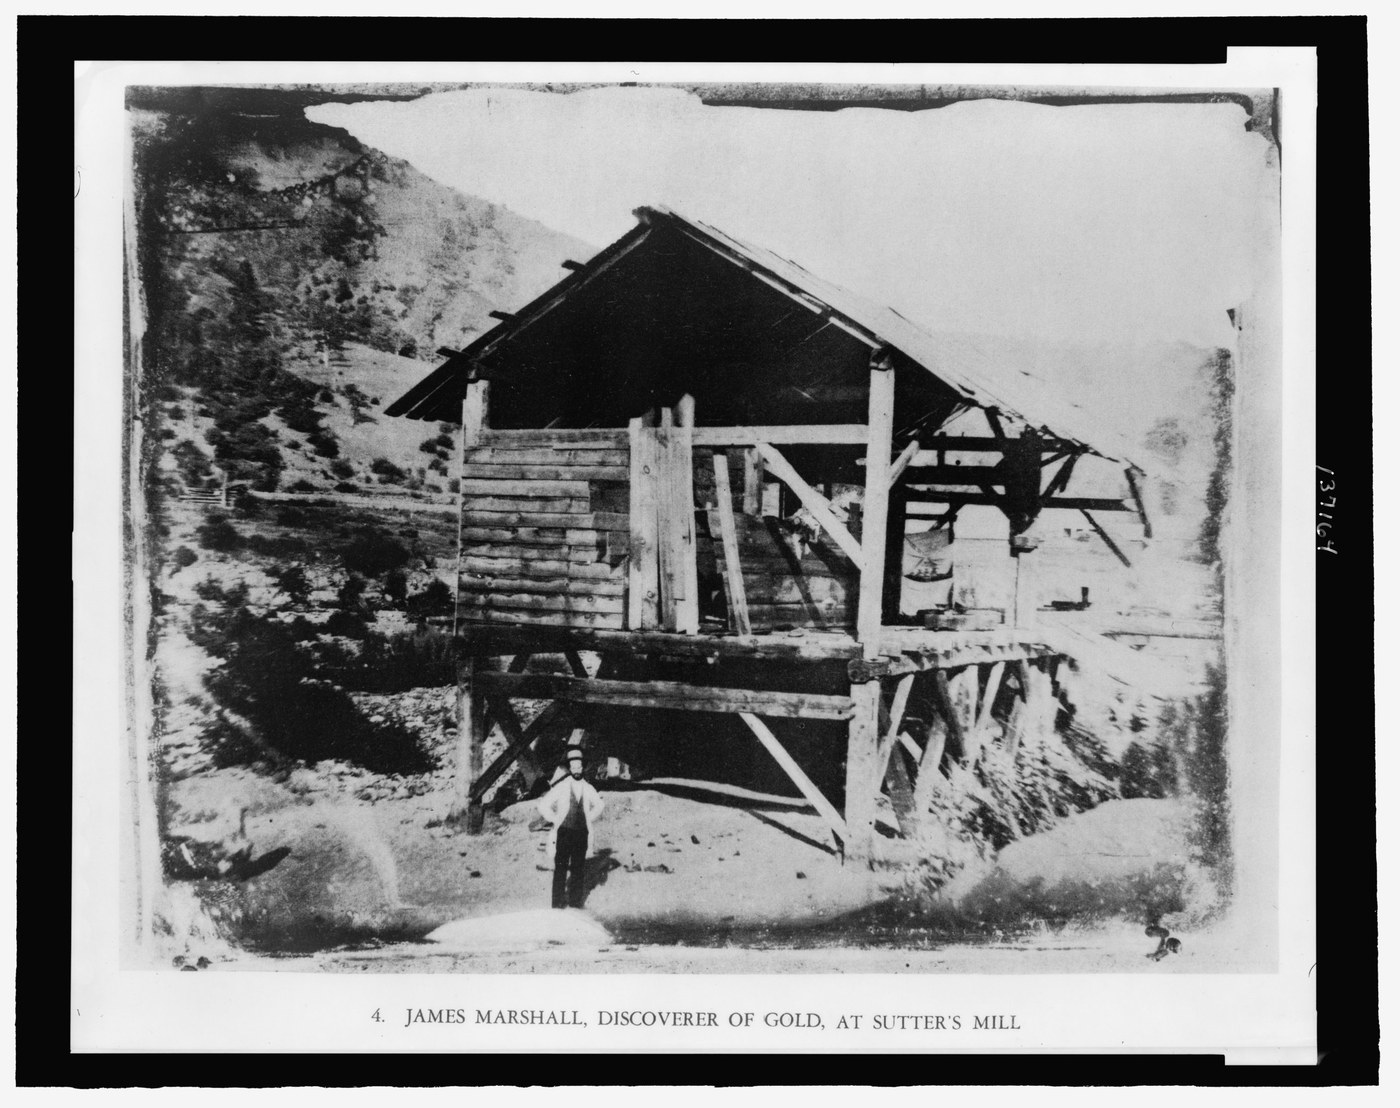
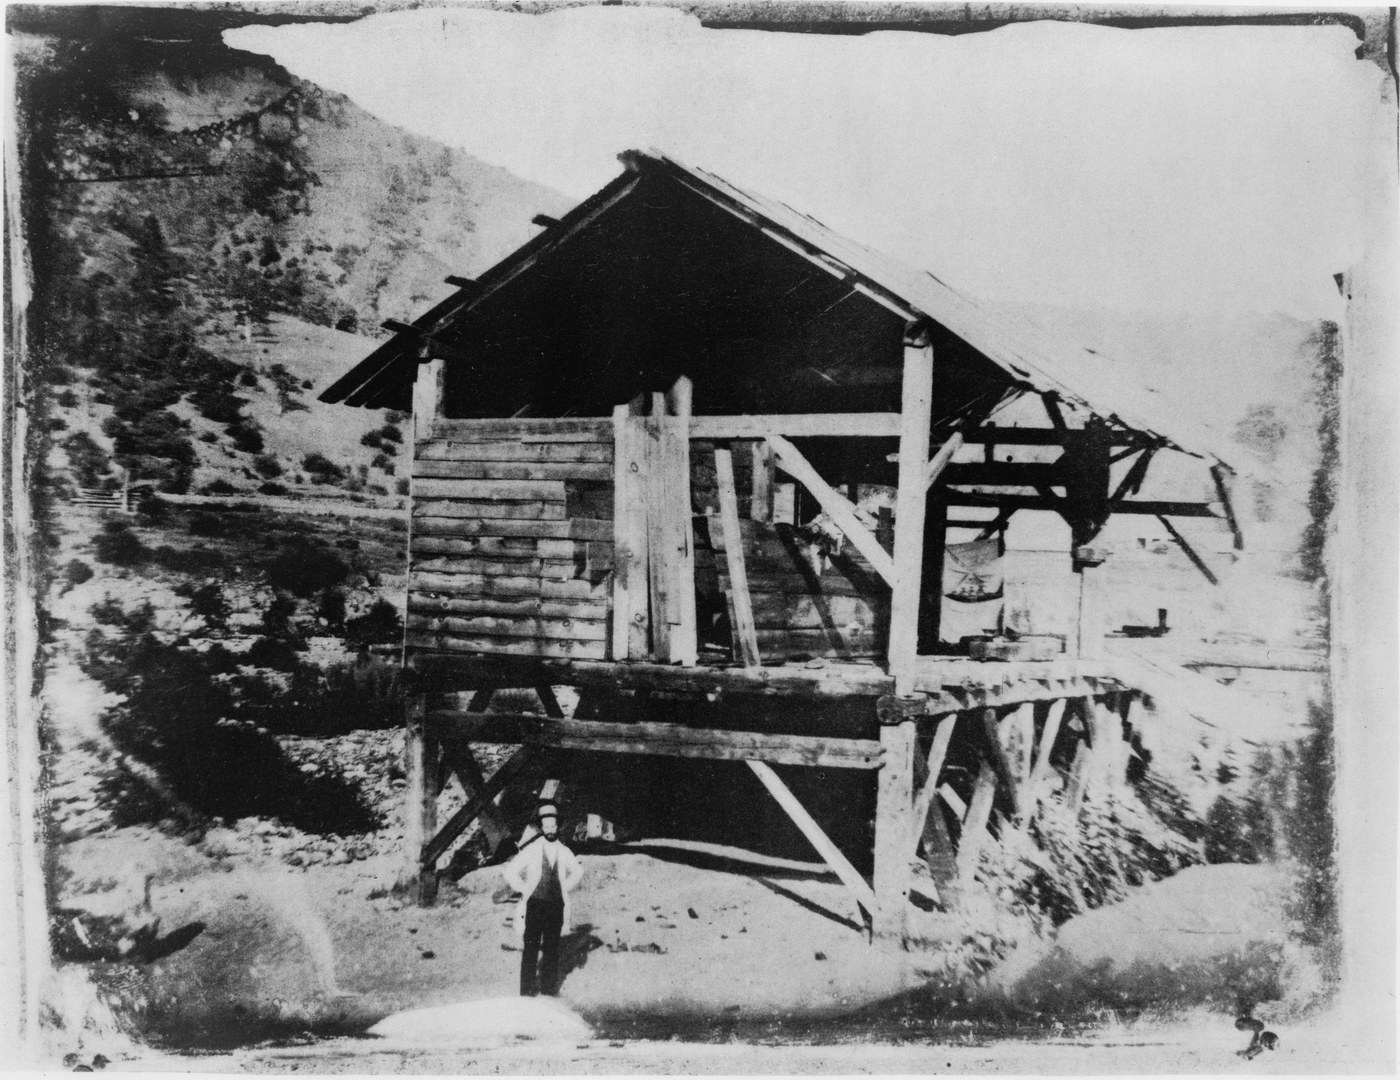
Add files via upload

diff --git a/chapter-17.html b/chapter-17.html
@@ -63,7 +63,7 @@ textarea:focus{outline:none;border-color:#efcf98 !important}
       <div style="display:flex;gap:22px;align-items:center;color:#f2efe9">
         <div><div style="font-family:'Inter Tight',sans-serif;font-weight:300;font-size:30px">7</div><div style="font-family:'Inter',sans-serif;font-size:10px;color:#c8c4bc">Interactives</div></div>
         <div style="width:1px;height:38px;background:rgba(255,255,255,.25)"></div>
-        <div><div style="font-family:'Inter Tight',sans-serif;font-weight:300;font-size:30px">8</div><div style="font-family:'Inter',sans-serif;font-size:10px;color:#c8c4bc">Images</div></div>
+        <div><div style="font-family:'Inter Tight',sans-serif;font-weight:300;font-size:30px">11</div><div style="font-family:'Inter',sans-serif;font-size:10px;color:#c8c4bc">Images</div></div>
       </div>
     </div>
   </div>
@@ -627,14 +627,17 @@ class Component extends DCLogic {
     const tab = on => ({ bg: on ? G : 'transparent', color: on ? '#16171a' : '#c8c4bc', border: on ? G : '#3a3d44' });
     const img = (key, ratio, maxW, caption, credit) => ({ isImage: true, slot: 'c17-' + key, src: '' + key + '.jpg', ratio, maxW, caption, credit: credit ? 'Credit: ' + credit : '', hasCredit: !!credit });
     const F = {
-      progress: img("american-progress", "1400/1050", "760px", "American Progress, chromolithograph published by George A. Crofutt in 1873, after John Gast’s painting of 1872.", "Library of Congress, Prints and Photographs Division, LC-DIG-ppmsca-09855"),
-      drummer: img("mexican-war-drummer", "1400/1570", "420px", "A drummer of the war with Mexico, in a hand-colored daguerreotype.", "Library of Congress, Prints and Photographs Division, LC-DIG-ppmsca-38362"),
-      treaty: img("guadalupe-hidalgo-p1", "1400/2202", "440px", "Page 1 of the Treaty of Guadalupe Hidalgo, February 1848, with the English and Spanish texts side by side.", "National Archives, NAID 124072879"),
-      cession: img("mexican-cession-states", "1400/1486", "640px", "The Mexican Cession, by today’s states.", "Base map data: Natural Earth"),
-      map: img("fremont-preuss-map", "1400/810", "820px", "Topographical Map of the Road from Missouri to Oregon, Section I, compiled by Charles Preuss in 1846 from the field notes and journal of Capt. J. C. Frémont.", "Library of Congress"),
-      trails: img("trails-numbers", "1400/775", "760px", "Overland emigrants, 1840–1860, and violence on the trails, by Unruh’s count.", ""),
-      calpop: img("california-population", "1400/775", "760px", "California on the eve of the gold rush, and California’s Native population.", ""),
-      marshall: img("marshall-sutters-mill", "1400/1108", "640px", "James Marshall at Sutter’s Mill.", "Library of Congress, Prints and Photographs Division, LC-USZ62-137164")
+      progress: img("american-progress", "1400/1020", "760px", "Figure 17.1 · American Progress, the chromolithograph George A. Crofutt issued in 1873 after John Gast’s painting of 1872. The canvas itself hangs at the Autry Museum of the American West.", "Library of Congress, Prints and Photographs Division, LC-DIG-ppmsca-09855"),
+      catlin: img("catlin-comanche-war-party", "1400/1007", "720px", "Figure 17.2 · George Catlin, Comanche War Party on the March, Fully Equipped, 1846–1848, oil on canvas.", "Smithsonian American Art Museum, Gift of Mrs. Joseph Harrison, Jr., 1985.66.596"),
+      alamo: img("fall-of-the-alamo", "1400/933", "760px", "Figure 17.3 · Robert Jenkins Onderdonk’s The Fall of the Alamo, painted in 1903, nearly seventy years after the battle, shows David Crockett swinging his rifle in the last fight. One Mexican officer’s account has him captured and executed instead.", "Texas Governor’s Mansion, Austin; Friends of the Governor’s Mansion"),
+      drummer: img("mexican-war-drummer", "1400/1570", "420px", "Figure 17.4 · A drummer in uniform, photographed about 1846, during the time of the Mexican War. Sixth-plate daguerreotype in its case; neither the sitter nor the photographer is identified.", "Library of Congress, Prints and Photographs Division, LC-DIG-ppmsca-38362"),
+      cession: img("mexican-cession-states", "1400/1486", "640px", "Figure 17.5 · The lands Mexico gave up in the Treaty of Guadalupe Hidalgo, 1848, shown by today’s states. California, Nevada, and Utah lie wholly within the cession; most of Arizona and parts of New Mexico, Colorado, and Wyoming do. The treaty line ran up the Rio Grande and along the Gila River; the northern edge, the 42nd parallel, had been Mexico’s border with the United States since 1819. The treaty also confirmed the Rio Grande as Texas’s border.", ""),
+      treaty: img("guadalupe-hidalgo-secret-article", "1400/2186", "440px", "Figure 17.6 · A working copy of the Treaty of Guadalupe Hidalgo’s Additional and Secret Article, in English and Spanish. It would have let the exchange of ratifications run up to eight months; the Senate struck it out. Nicholas Trist negotiated the treaty after Polk had recalled him.", "National Archives and Records Administration, Record Group 11, General Records of the United States Government, National Archives Identifier 125849569"),
+      map: img("fremont-preuss-map", "1400/810", "820px", "Figure 17.7 · Section I of the Topographical Map of the Road from Missouri to Oregon, compiled by Charles Preuss in 1846, by order of the Senate, from the field notes and journal of John C. Frémont. The map ran to seven sections at ten miles to the inch, with daily readings of weather and altitude and notes on the country along the way.", "Library of Congress, Geography and Map Division, G4127.O7 1846 .F7"),
+      trails: img("trails-numbers", "1400/775", "760px", "Figure 17.8 · Emigrants on the overland trails by destination, 1840 to 1860, and the killings on both sides that John D. Unruh Jr. counted in The Plains Across (1979).", ""),
+      marshall: img("marshall-sutters-mill", "1400/1080", "640px", "Figure 17.9 · James W. Marshall in front of Sutter’s sawmill at Coloma. The picture reproduces, by a photomechanical process in 1948, a daguerreotype R. H. Vance made about 1850.", "Library of Congress, Prints and Photographs Division, LC-USZ62-137164"),
+      auburn: img("auburn-ravine-1852", "889/669", "640px", "Figure 17.10 · Miners at Auburn Ravine, California, 1852: three white miners at the sluice box and four Chinese miners beside it. Photographer unknown.", "The Huntington Library, Art Museum, and Botanical Gardens"),
+      calpop: img("california-population", "1400/775", "760px", "Figure 17.11 · California on the eve of the gold rush, and its Native population then and about twenty years later, in the figures this chapter gives.", "")
     };
     const TQ = ['What does the law say?', 'What do the morals mandate?', 'Who holds the power?'];
     const lmp3 = (key, conflict) => ({ isLMP: true, conflict, qs: TQ.map((text, i) => ({ text, val: s.notes[key + i] || '', onChange: e => this.setNote(key + i, e.target.value) })) });
@@ -642,12 +645,13 @@ class Component extends DCLogic {
     const inserts = {
       'The Line at 36°30′': { 3: [{ isMissouri: true }] },
       'A Manifest Destiny': { 5: [F.progress] },
-      'Texas': { 6: [{ isTexas: true }] },
+      'The Mexican Frontier': { 1: [F.catlin] },
+      'Texas': { 5: [F.alamo], 6: [{ isTexas: true }] },
       'American Blood upon the American Soil': { 5: [{ isReason: true }] },
       'To the Halls of the Montezumas': { 0: [F.drummer], 3: [{ isFronts: true }] },
-      'The Forbidden Fruit': { 5: [F.treaty, F.cession], 6: [{ isTreaty: true }] },
+      'The Forbidden Fruit': { 5: [F.cession, F.treaty], 6: [{ isTreaty: true }] },
       'The Trails West': { 0: [F.map], 2: [F.trails] },
-      'Gold': { 0: [F.calpop], 1: [F.marshall], 2: [{ isPrices: true }] }
+      'Gold': { 1: [F.marshall], 2: [{ isPrices: true }], 3: [F.auburn], 4: [F.calpop] }
     };
     const sections = d ? d.sections.map((sec, i) => {
       const blocks = [];
